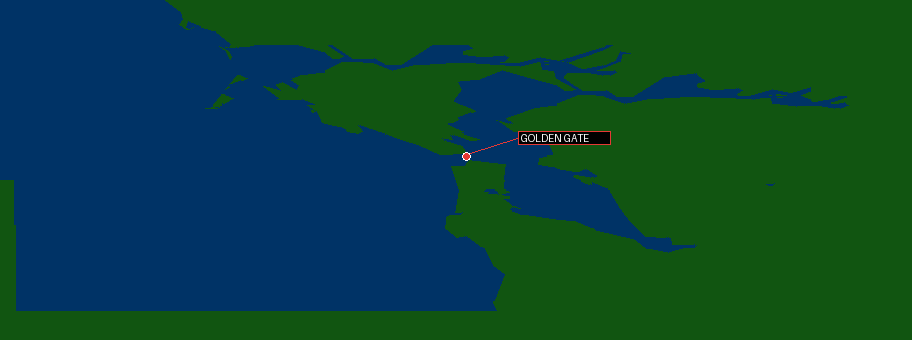
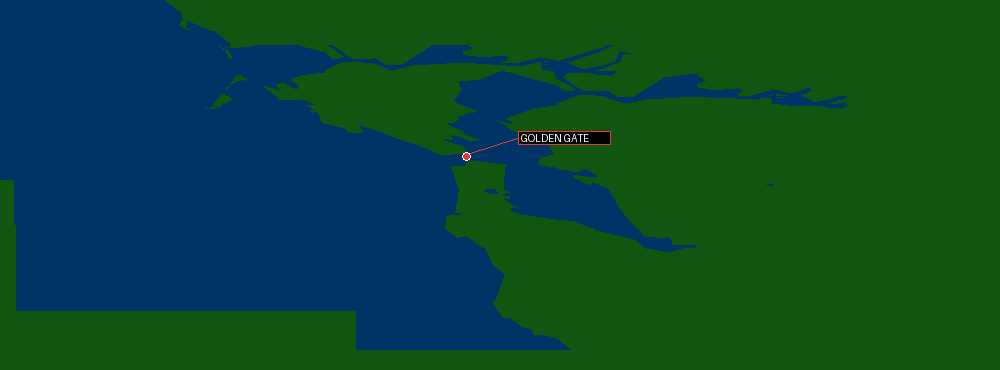
Join Base-3 M-map vector capture

Changed region(s): [[0.1535, 0.0, 0.9518, 0.7353], [0.0, 0.6765, 0.5833, 0.9706], [0.0, 0.4706, 0.0307, 0.5294]]

diff --git a/scripts/render_m_map_panned_vector_mosaic.py b/scripts/render_m_map_panned_vector_mosaic.py
@@ -30,8 +30,10 @@ RUNS = (
     # run035 = run024 + (140,35), measured from the exact blue-water join.
     ("run024", ROOT / "build/run024_m_map_projected_polygons/projected_polygons.json", 270, 96, 42, 0, 42),
     ("run003", ROOT / "build/run003_m_map_projected_polygons/projected_polygons.json", 272, 97, 42, None, None),
+    # run035 = run004 + (226,109), measured from the exact blue-water join.
+    ("run004", ROOT / "build/run004_m_map_projected_polygons/projected_polygons.json", 356, 170, 22, 2, 22),
 )
-WIDTH, HEIGHT = 912, 340
+WIDTH, HEIGHT = 1000, 370
 ANCHORS = (("GOLDEN GATE", 466, 156.5, "#e53935"),)
 GOLDEN_GATE_LINES = (((466, 153), (466, 157)), ((466, 160), (466, 156)))
 
@@ -95,7 +97,7 @@ def main() -> None:
         "runs": report_runs,
         "landmarks": [{"name": name, "anchor": [x, y]} for name, x, y, _ in ANCHORS],
         "golden_gate_segments": [[list(start), list(end)] for start, end in GOLDEN_GATE_LINES],
-        "qualification": "The normalized mosaic places run042 at (0,0), run002 at +16,+131, run037 at +14,+45, run035 at +130,+61, run038 at +154,+71, run041 at +172,+72, run001 at +194,+121, run024 at +270,+96, and run003 at +272,+97 host pixels. Run001 is a 36-submission pass from an independent Base-1 free-flight checkpoint; its run001/run035 join is 97.9020% agreement across 67,968 water pixels. Run002 is a 43-submission pass from an independent Base-4 free-flight checkpoint; its run002/run035 join is 97.9792% agreement across 56,808 water pixels. Run024 is a 42-submission pass from the user-verified San Francisco cockpit checkpoint; its run024/run035 join is 98.1594% agreement across 71,500 water pixels. Run038 uses an explicit stable 58-submission pass beginning at collector submission 8; its run038/run035 join is 98.2684% agreement across 103,488 water pixels. Run041 uses an explicit moving 50-submission bounded pass beginning at collector submission 10. Its run041/run035 join is 98.2697% agreement across 99,866 water pixels and composes with run035/run042. The run037/run035 join is 97.9997% agreement across 84,888 water pixels; run035/run042 is 98.4816%, and run003 follows the established +142,+36 relation from run035. Its red Golden Gate vectors are C3559A/C355D2 lines transferred through the red-pixel-validated relation. The reusable C3B720/C3B6B0 component is deliberately excluded as an unproven landmark. This is a joined observed coverage view, not absolute global coordinates, a complete world map, or a full terrain-model extraction. Screen-relative grid and state-dependent object symbols are excluded.",
+        "qualification": "The normalized mosaic places run042 at (0,0), run002 at +16,+131, run037 at +14,+45, run035 at +130,+61, run038 at +154,+71, run041 at +172,+72, run001 at +194,+121, run024 at +270,+96, run003 at +272,+97, and run004 at +356,+170 host pixels. Run004 is an explicitly bounded 22-submission pass beginning at collector submission 2 from an independent Base-3 free-flight checkpoint; its run004/run035 join is 99.3979% agreement across 28,566 water pixels. Run001 is a 36-submission pass from an independent Base-1 free-flight checkpoint; its run001/run035 join is 97.9020% agreement across 67,968 water pixels. Run002 is a 43-submission pass from an independent Base-4 free-flight checkpoint; its run002/run035 join is 97.9792% agreement across 56,808 water pixels. Run024 is a 42-submission pass from the user-verified San Francisco cockpit checkpoint; its run024/run035 join is 98.1594% agreement across 71,500 water pixels. Run038 uses an explicit stable 58-submission pass beginning at collector submission 8; its run038/run035 join is 98.2684% agreement across 103,488 water pixels. Run041 uses an explicit moving 50-submission bounded pass beginning at collector submission 10. Its run041/run035 join is 98.2697% agreement across 99,866 water pixels and composes with run035/run042. The run037/run035 join is 97.9997% agreement across 84,888 water pixels; run035/run042 is 98.4816%, and run003 follows the established +142,+36 relation from run035. Its red Golden Gate vectors are C3559A/C355D2 lines transferred through the red-pixel-validated relation. The reusable C3B720/C3B6B0 component is deliberately excluded as an unproven landmark. This is a joined observed coverage view, not absolute global coordinates, a complete world map, or a full terrain-model extraction. Screen-relative grid and state-dependent object symbols are excluded.",
     }
     report_path.write_text(json.dumps(report, indent=2) + "\n", encoding="utf-8")
     print(json.dumps({"runs": len(report_runs), "svg": str(svg_path), "png": str(png_path)}))

diff --git a/analysis/data/m_map_panned_projected_polygon_mosaic.md b/analysis/data/m_map_panned_projected_polygon_mosaic.md
@@ -5,13 +5,15 @@
 
 This wider view joins the run042 40-polygon, run002 43-polygon, run037
 47-polygon, run035 49-polygon, run038 58-polygon, bounded moving run041
-50-polygon, run001 36-polygon, run024 42-polygon, and run003 42-polygon M-map
-passes. Every blue shape is a direct `$C4B390`
+50-polygon, run001 36-polygon, run024 42-polygon, run003 42-polygon, and
+bounded run004 22-polygon M-map passes. Every blue shape is a direct `$C4B390`
 projected polygon captured immediately before `$C2FF48`; the green base is the
 game’s observed land palette. In the normalized mosaic run042 starts at
 `(0,0)`, run002 is translated by `(16,131)`, run037 by `(14,45)`, run035 by
 `(130,61)`, run038 by `(154,71)`, run041 by `(172,72)`, run001 by `(194,121)`,
-run024 by `(270,96)`, and run003 by `(272,97)` host pixels. The run001/run035
+run024 by `(270,96)`, run003 by `(272,97)`, and run004 by `(356,170)` host
+pixels. The run004/run035 join has 99.3979% blue-water agreement over 28,566
+pixels; the run001/run035
 join has 97.9020% blue-water agreement over 67,968 pixels; the run002/run035 join has 97.9792%
 blue-water agreement over 56,808 pixels; the run024/run035 join has 98.1594% blue-water
 agreement over 71,500 pixels; the
@@ -23,6 +25,7 @@ their measurements are
 [`run038_run035_m_map_pan_comparison.json`](run038_run035_m_map_pan_comparison.json),
 [`run002_run035_m_map_pan_comparison.json`](run002_run035_m_map_pan_comparison.json),
 [`run001_run035_m_map_pan_comparison.json`](run001_run035_m_map_pan_comparison.json),
+[`run004_run035_m_map_pan_comparison.json`](run004_run035_m_map_pan_comparison.json),
 [`run024_run035_m_map_pan_comparison.json`](run024_run035_m_map_pan_comparison.json),
 [`run041_run035_m_map_pan_comparison.json`](run041_run035_m_map_pan_comparison.json),
 [`run037_run035_m_map_pan_comparison.json`](run037_run035_m_map_pan_comparison.json),

diff --git a/analysis/data/run004_m_map_projected_polygon_vectors.md b/analysis/data/run004_m_map_projected_polygon_vectors.md
@@ -1,0 +1,17 @@
+# Run004 M-map projected polygon vectors
+
+[Open the source-vector SVG](../visuals/run004_m_map_projected_polygon_vectors.svg)
+or its [inspection PNG](../visuals/run004_m_map_projected_polygon_vectors.png).
+
+From the sealed run004 frame-2570 Base-3 free-flight checkpoint, one `M` key
+press enters a pass with a two-submission non-map setup prefix followed by 22
+observed map polygons. The direct `$C4B390` export matches its M screen at
+**112,160 / 112,700 = 99.5209%** for land/sea pixels.
+
+The blue-water coastline joins run035 as `run035(x+226,y+109)=run004(x,y)` at
+99.3979% agreement over 28,566 pixels, placing the bounded pass at `(356,170)`
+in the normalized mosaic. It contributes new lower-right coverage; it does not
+establish absolute coordinates or a named landmark.
+
+Authority: sealed run004 checkpoint, with ignored reproduction captures in
+`build/run004_m_map_projected_polygons/` and `build/run004_m_map_oracle/`.
